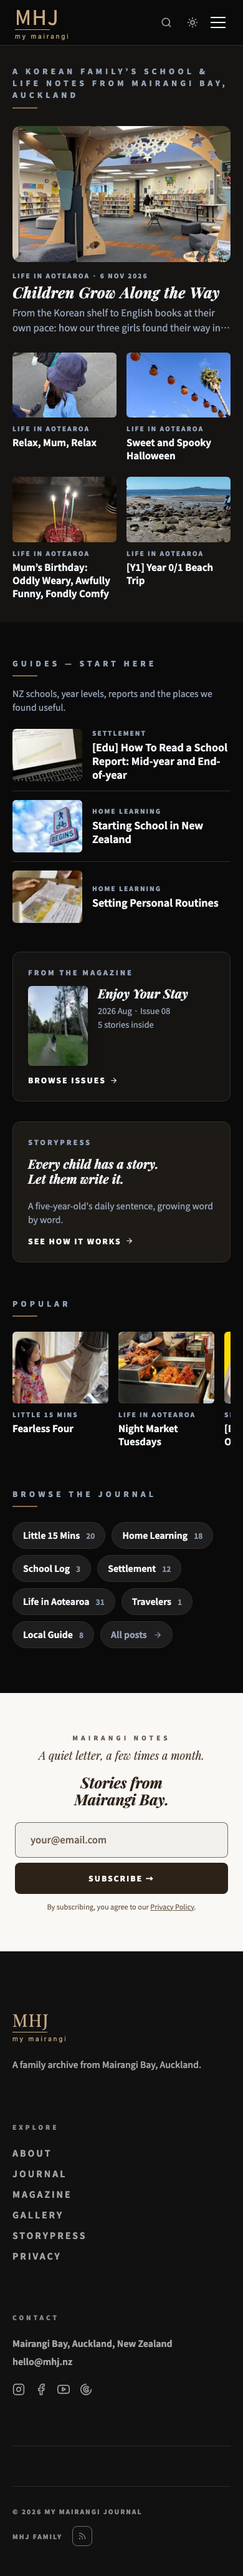
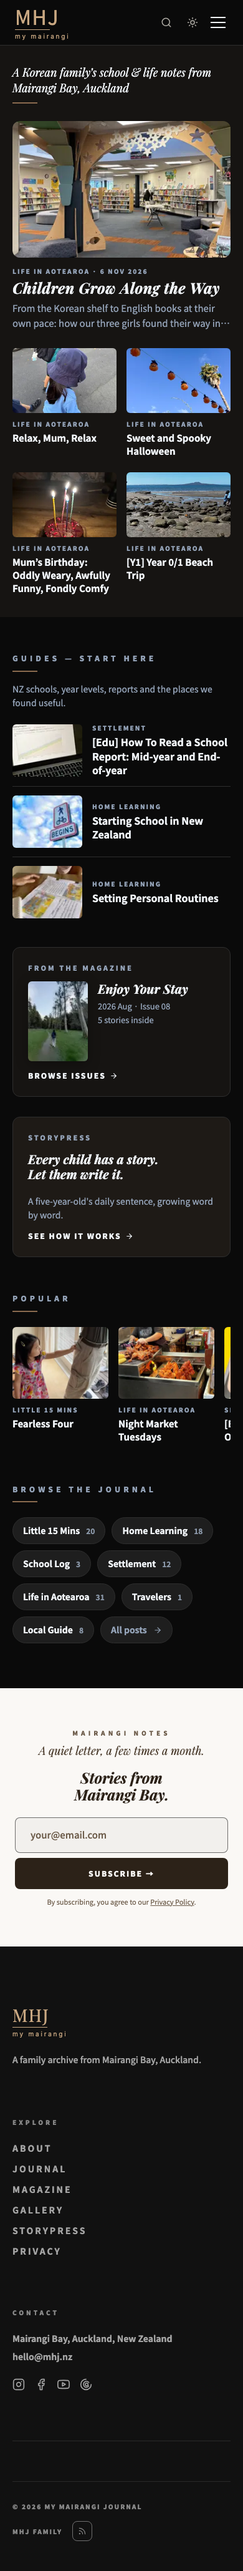
fix(home): 머리 문장 중간안 — Playfair 이탤릭 18px·400, 1440·768 한 줄·390 두 줄
32px 시안은 과하다는 PeNnY 판단(2026-11-10). 후보 A·B·C 를 재서 C 반영.
점수 7.8 → 8.0 통과. 구역 제목 h2 는 꼬리표 그대로.

diff --git a/app/globals.css b/app/globals.css
@@ -1723,6 +1723,19 @@ textarea::placeholder {
   color: var(--text-secondary);
   margin: 0;
 }
+/* 머리 문장(h1)만 — 가족 소개 한 줄. 12px 대문자 꼬리표는 첫 화면에서 가장 작은 글자였고(태블릿 2줄·모바일 3줄),
+   크게 키운 시안(32px·2줄)은 과했다(PeNnY 2026-11-10). 중간안: 1440·768 한 줄, 390 두 줄.
+   최신 글 제목(Playfair 이탤릭 30px·900)보다 작고 가볍게 둔다. 구역 제목(h2)은 꼬리표 그대로. */
+h1.home-label {
+  font-family: 'Playfair Display', 'Noto Sans KR', serif;
+  font-style: italic;
+  font-weight: 400;
+  font-size: 18px;
+  letter-spacing: 0;
+  line-height: 1.4;
+  text-transform: none;
+  color: var(--text);
+}
 
 /* 카드 공통 카테고리 줄 */
 .home-card-cat {

diff --git a/docs/specs/home-2026-11.md b/docs/specs/home-2026-11.md
@@ -27,7 +27,7 @@
 
 | # | 항목 | 점수 | 근거 |
 |---|---|---|---|
-| 1 | 3초 첫인상 | **6** | h1 그대로(가족 판단 대기, §8) |
+| 1 | 3초 첫인상 | **8** | h1 중간안(§8): Playfair 이탤릭 18px·400, 1440·768 한 줄 · 390 두 줄(전: 12px 대문자, 768 두 줄 · 390 세 줄) |
 | 2 | 편집 위계 | 8 | |
 | 3 | 글자 | 8 | 말줄임 0 · 구독 헤드라인 자간 -0.01em |
 | 4 | 구성·여백 | 8 | 1440 상자 안 빈 공간 0. 가이드 열 아래 약 60px 남음 |
@@ -37,7 +37,7 @@
 | 8 | 모바일 | 8 | 390·768 제목 3줄까지 다 보임 |
 | 9 | 문구 | 8 | 발송 주기 모순 해소 |
 | 10 | 마감 | 8 | |
-| | **평균** | **7.8** | **미달 — 1번 하나 때문.** h1 시안(§8)을 쓰면 1번 8 → 평균 8.0 통과 |
+| | **평균** | **8.0** | **통과**(7 미만 0). 2회차 검사: axe 0 · 대비 0 · 깜빡임 0 · 글꼴 대체 0. 기능 검사 결함 1 = `/blog/fearless-four` 모바일 다크 스크린샷이 Google Fonts 대기 30초 초과(네트워크 지연, 홈과 무관 — 1회차 같은 코드 0) |
 
 ## 1. 요약
 
@@ -80,4 +80,4 @@
 
 ## 8. 가족에게 물을 것
 
-머리 문장 h1 을 꼬리표 모양 그대로 둘지, 읽히는 문장(예: Playfair 이탤릭 26~30px, 원문 대소문자)으로 키울지. 시안 화면을 PR 에 붙인다. 3초 첫인상 점수는 이 결정에 달려 있다.
+~~머리 문장 h1 을 꼬리표 모양 그대로 둘지, 읽히는 문장으로 키울지~~ → **결정(PeNnY 2026-11-10)**: 32px 시안은 "너무 크고 줄까지 바뀐다", 가족 소개 한 줄이라 강조될 필요는 없다 — 지금과 시안 사이 최적안. 후보 A(13px 대문자·자간 2.5px) · B(15px 보통 글자) · C(Playfair 이탤릭 18px·400) 를 재서 **C** 를 반영: 1440·768 한 줄, 390 두 줄, 최신 글 제목(30px·900)보다 작고 가볍다. 구역 제목 h2 는 꼬리표 그대로. 비교 `docs/qa/2026-11-10-home/compare/1-head-sentence.png`.
